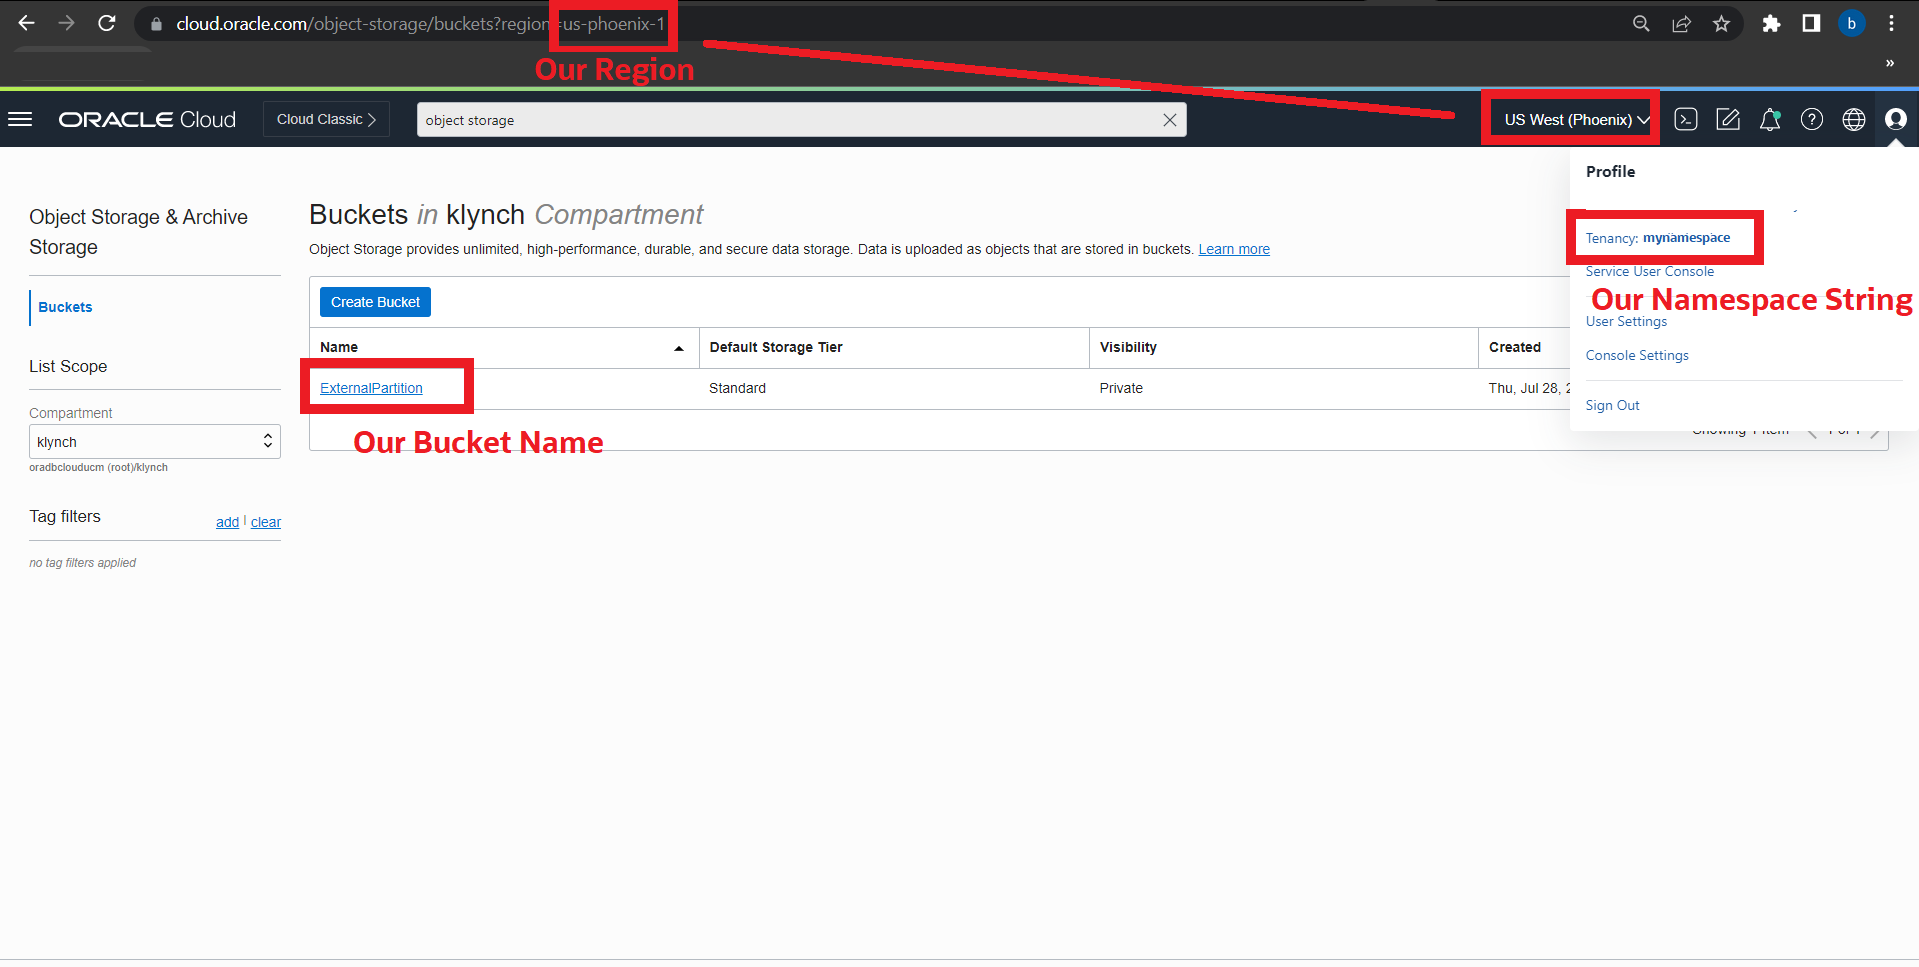
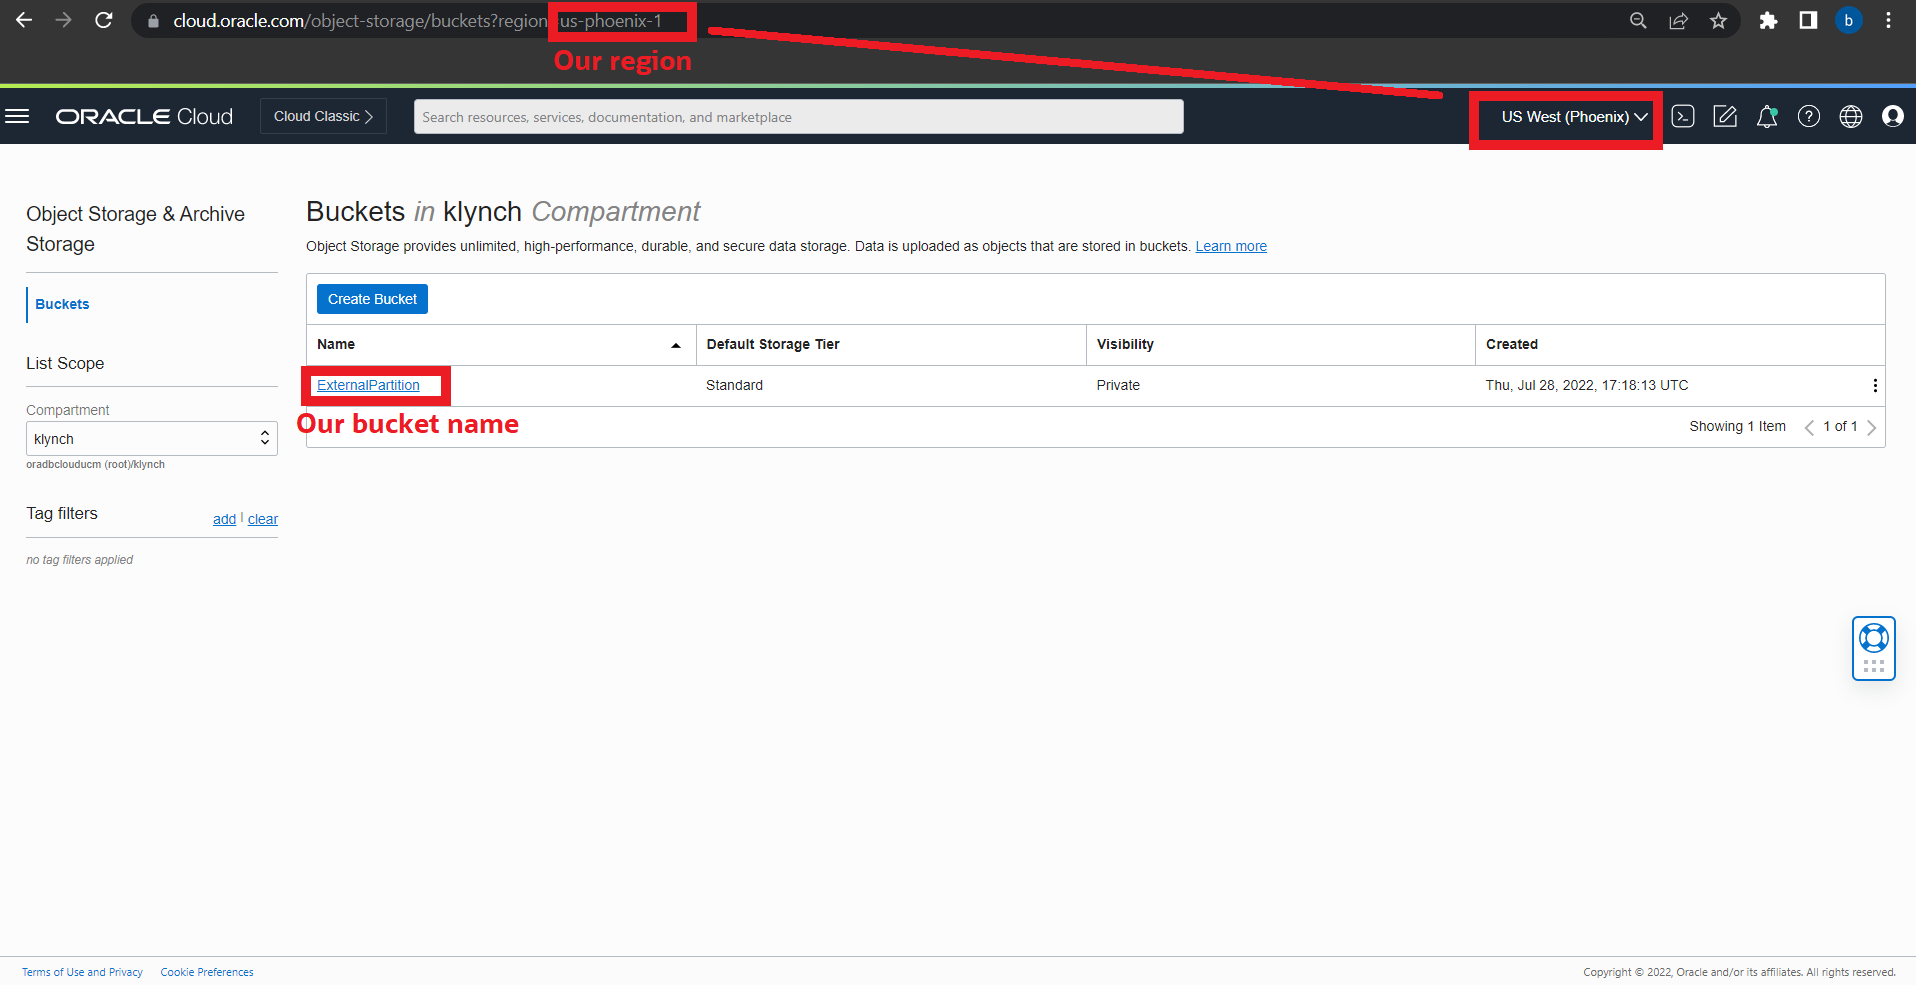
updates to building credentials

diff --git a/hybrid-partitioned-tables/partitioning.md b/hybrid-partitioned-tables/partitioning.md
@@ -161,12 +161,16 @@ First let's create some external files.  The external partitions will be stored 
     INSERT INTO SALES_OLD VALUES (1001, 111, '26-JUL-2010', 1, 01, 50, 50);
     </copy>
     ````
-3. Now we will export our data to object storage. In order to do this we need to **locate some information**. Our URI variable will be a our link to object storage and will look something like this https://objectstorage.**region**.oraclecloud.com/n/**namespace-string**/b/**bucket**/o/**yourFileName.dmp**. What we need to locate is the bold above. The region, our namespace, and our bucket name. Once we locate this information, lets save our https link on a text file or somewhere it can be easily accessed for the upcoming steps.
+3. Now we will export our data to object storage. In order to do this we need to **locate some information**. Our URI variable will be our link to object storage and will look something like this https://objectstorage.**region**.oraclecloud.com/n/**namespace-string**/b/**bucket**/o/yourFileName.dmp. What we need to locate is the bold above. The region, our namespace, and our bucket name. Once we locate this information, lets save our https link on a text file or somewhere it can be easily accessed for the upcoming steps.
 
-    You can find your region, bucket name, and namespace string all in one location by using the Oracle Cloud Console to locate your bucket. If you need a re-fresher on how to find object storage, use the task 1 above or from the OCI console got to -> Hamburger menu -> Storage -> Object Storage & Archive Storage.
+    You can find your region and bucket name by using the Oracle Cloud Console and locating your bucket. If you need a re-fresher on how to find object storage, use the task 1 above or from the OCI console got to -> Hamburger menu -> Storage -> Object Storage & Archive Storage.
     ![locating the region](./images/region.png " ")
 
+    To find our namespace string **click the user profile icon in the top right hand corner** of the screen and select the tenancy name. The Object storage namespace will be displayed. See picture below for reference.
+   ![locating the namepsace](./images/namespace.png " ")
+
     Now **you need to update your file uri list** to look something like the code snippet below. Notice we will call our external dump file 'sales_old.dmp'
+  
 
 
     ````
@@ -202,7 +206,7 @@ END;
 
 ## Task 4: Implement Hybrid Partition Tables
 
-Now that we have data in an external location, in our case Object Storage, we are going to create a hybrid partitioned table called Sales\_by\_year. We will have one partition pointing to the data in our Object Storage bucket, and 3 internal partitions for years 2021, 2020, and 2019. 
+Now that we have data in an external location, in our case Object Storage, we are going to create a hybrid partitioned table called Sales\_by\_year. We will have one partition pointing to the data in our Object Storage bucket, and 3 internal partitions for years 2019, 2020 and 2021.
 
 
 Hybrid Partitioned Tables support many partition level operations, including:
@@ -285,6 +289,18 @@ Hybrid Partitioned Tables support many partition level operations, including:
     ````
 
     Notice that our sales partition SALES_2019 is an internal partition. Because our company only keeps the last 2 years worth of data stored internally, we will be exchanging this partition with one in Object Storage.
+
+    However lets first try and add data to our Sales_old partition located on Object Storage. 
+     ````
+    <copy>
+       INSERT INTO SALES_OLD VALUES (1009, 999, '26-JUL-2009', 9, 09, 10, 70);
+    </copy>
+    ````
+
+    We see we get an **error**. This is because the partition on Object Storage is stored in **read-only mode**. This also means it is easier to maintain external partitions and the database doesn't have to worry about backups because you only ever need to backup the external partition once.
+    
+      ![Read Only](./images/read-only.png " ")
+
 
 4. Now we will export our sales_2019 partition data to object storage using DBMS\_CLOUD.EXPORT\_DATA functionality like we did at the beginning of this lab. **Make sure to update the URI with your link**. Leave your URI in single quotes. Like this 'yourURI'. **Lets call this file sales2019.dmp**
 

diff --git a/sql-macros/sql-macros.md b/sql-macros/sql-macros.md
@@ -1,7 +1,7 @@
 # Using SQM Scalar and Table Expressions
 
 ## Introduction
-This lab only contains a small section of the SQL updates added to Oracle Database 19c. For the full list see the 'Lear More section at the bottom. SQL Macros is a new, simpler way to encapsulate complex processing logic directly within SQL. SQL Macros allow developers to encapsulate complex processing within a new structure called a "macro" which can then be used within SQL statement. Essentially there two types of SQL Macros: SCALAR and TABLE.  SCALAR expressions can be used in SELECT list, WHERE/HAVING, GROUP BY/ORDER BY clauses.  TABLE expressions are used in a FROM-clause.
+This lab only contains a small section of the SQL updates added to Oracle Database 19c. For the full list see the 'Learn More' section at the bottom. SQL Macros is a new, simpler way to encapsulate complex processing logic directly within SQL. SQL Macros allow developers to encapsulate complex processing within a new structure called a "macro" which can then be used within SQL statement. Essentially there two types of SQL Macros: SCALAR and TABLE.  SCALAR expressions can be used in SELECT list, WHERE/HAVING, GROUP BY/ORDER BY clauses.  TABLE expressions are used in a FROM-clause.
 
 You can create SQL Macros (SQM) to factor out common SQL expressions and statements into reusable, parameterized constructs that can be used in other SQL statements. SQL Macros have an important advantage over ordinary PL/SQL functions in that they make the reusable SQL code completely transparent to the optimizer – and that brings big benefits! It makes it possible for the optimizer to transform the original code for efficient execution because the underlying query inside the macro function can be merged into outer query. That means there is no context switching between PL/SQL and SQL and the query inside the macro function is now executed under same snapshot as outer query. So we get both simplicity and faster execution.
 
